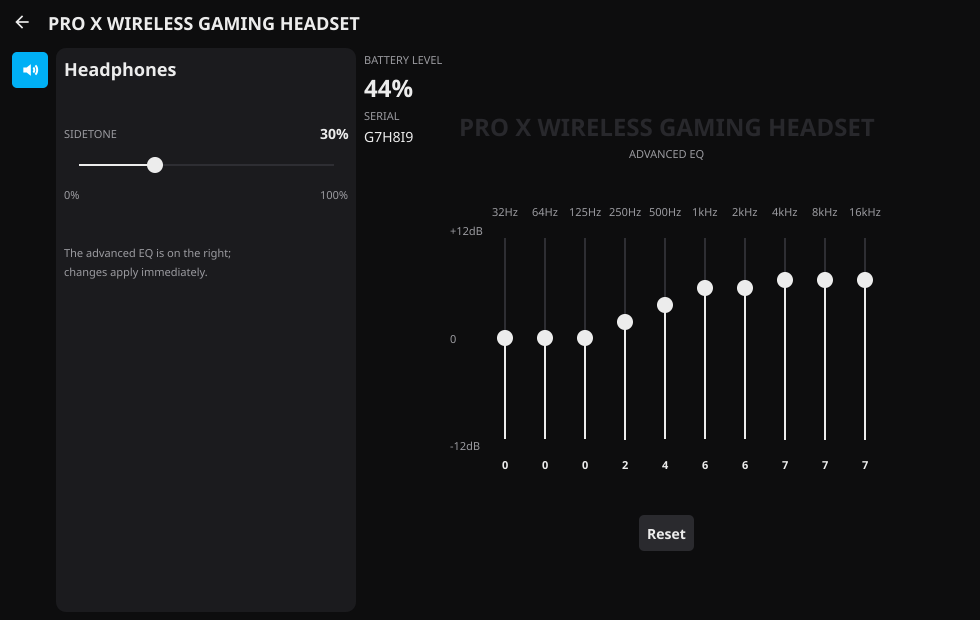
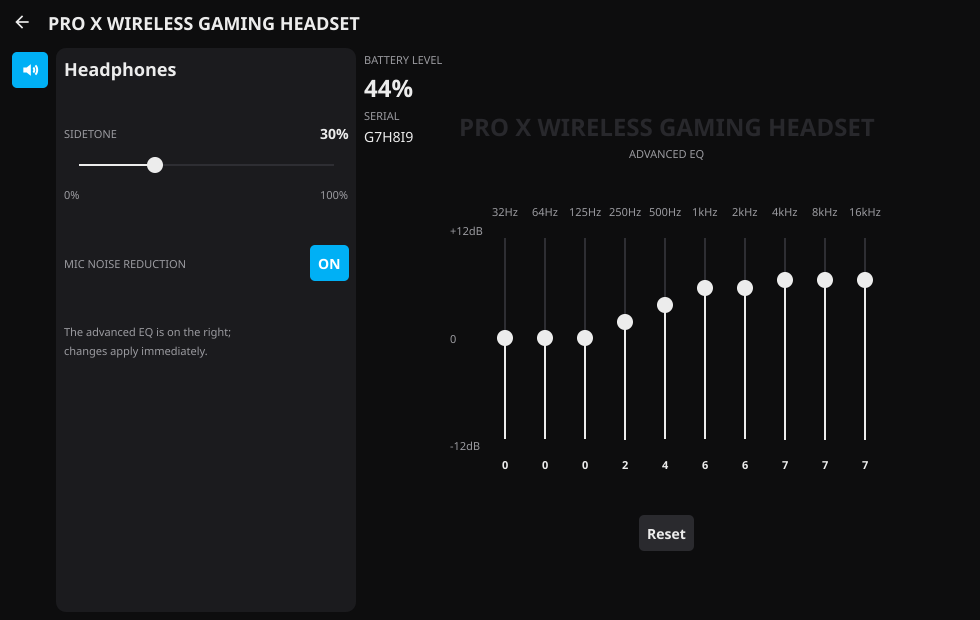
Add mic noise-reduction toggle to the PRO X page
The EQUALIZER feature (0x8310) the prox plugin already talks to has two
more functions — 4 (get) and 5 (set) hardware microphone noise
reduction — surfaced here as a device.NoiseReductionControl capability
and a MIC NOISE REDUCTION pill on the Headphones panel. Units whose
firmware predates the functions answer with a HID++ error; the GUI
probes with a read and hides the toggle in that case, and tests cover
both firmwares.

Also documents the equalizer get/set-levels selector bytes that were
previously cargo-culted as an unexplained "required prefix": the get
byte is a gain location (EEPROM vs RAM) and the set byte a persistence
mode. Values unchanged; discovered via OpenLogi's independently written
0x8310 implementation (github.com/AprilNEA/OpenLogi, MIT/Apache-2.0).

Claude-Session: https://claude.ai/code/session_012G3xCm836vyhQgGvqn7bKg

Changed region(s): [[0.0612, 0.521, 0.2449, 0.5823], [0.0612, 0.3984, 0.2449, 0.4597], [0.3061, 0.3984, 0.3673, 0.4597]]

diff --git a/internal/device/prox/prox_test.go b/internal/device/prox/prox_test.go
@@ -99,6 +99,12 @@ type fakeHeadset struct {
 	eqDBRange int8
 	eqFreqs   []uint16
 	eqLevels  []int8
+
+	noiseReduction bool
+	// noNoiseReduction simulates firmware that predates the equalizer
+	// feature's noise-reduction functions: they answer with a HID++
+	// error instead.
+	noNoiseReduction bool
 }
 
 func newFakeHeadset() *fakeHeadset {
@@ -115,6 +121,7 @@ func newFakeHeadset() *fakeHeadset {
 		eqDBRange:      12,
 		eqFreqs:        []uint16{32, 64, 125, 250, 500, 1000, 2000, 4000, 8000, 16000},
 		eqLevels:       []int8{0, 0, 0, 0, 0, 0, 0, 0, 0, 0},
+		noiseReduction: true,
 	}
 }
 
@@ -189,6 +196,18 @@ func (fh *fakeHeadset) respond(req []byte) []byte {
 				}
 				fh.eqLevels[i] = int8(params[1+i])
 			}
+		case eqFuncGetNoiseReduction & 0xf0:
+			if fh.noNoiseReduction {
+				return fh.errorResponse(deviceIndex, featureIndex, funcSwID)
+			}
+			if fh.noiseReduction {
+				resp[4] = 1
+			}
+		case eqFuncSetNoiseReduction & 0xf0:
+			if fh.noNoiseReduction {
+				return fh.errorResponse(deviceIndex, featureIndex, funcSwID)
+			}
+			fh.noiseReduction = params[0] != 0
 		default:
 			return fh.errorResponse(deviceIndex, featureIndex, funcSwID)
 		}
@@ -386,5 +405,60 @@ func TestSetEqualizerLevelsWrongCount(t *testing.T) {
 
 	if err := h.SetEqualizerLevels([]int{1, 2, 3}); err == nil {
 		t.Fatal("expected an error when the level count doesn't match the band count")
+	}
+}
+
+func TestNoiseReductionGetSet(t *testing.T) {
+	h, fh, _ := newTestHeadset(t)
+	defer h.Close()
+
+	on, err := h.NoiseReduction()
+	if err != nil {
+		t.Fatalf("NoiseReduction: %v", err)
+	}
+	if !on {
+		t.Error("expected noise reduction to start enabled")
+	}
+
+	if err := h.SetNoiseReduction(false); err != nil {
+		t.Fatalf("SetNoiseReduction(false): %v", err)
+	}
+	if fh.noiseReduction {
+		t.Error("device still has noise reduction enabled after disabling")
+	}
+
+	if err := h.SetNoiseReduction(true); err != nil {
+		t.Fatalf("SetNoiseReduction(true): %v", err)
+	}
+	on, err = h.NoiseReduction()
+	if err != nil {
+		t.Fatalf("NoiseReduction: %v", err)
+	}
+	if !on {
+		t.Error("noise reduction should read back enabled")
+	}
+}
+
+func TestNoiseReductionUnsupportedFirmware(t *testing.T) {
+	fh := newFakeHeadset()
+	fh.noNoiseReduction = true
+	handle := newFakeHandle()
+	handle.responder = fh.respond
+	conn := hidpp.Open(handle)
+
+	h, err := buildHeadset(conn, "TESTSN")
+	if err != nil {
+		conn.Close()
+		t.Fatalf("buildHeadset: %v", err)
+	}
+	defer h.Close()
+
+	// Firmware without functions 4/5 answers with a HID++ error; the
+	// plugin surfaces that as an error (and the GUI hides the toggle).
+	if _, err := h.NoiseReduction(); err == nil {
+		t.Fatal("expected an error from firmware without noise-reduction functions")
+	}
+	if err := h.SetNoiseReduction(true); err == nil {
+		t.Fatal("expected an error setting noise reduction on unsupported firmware")
 	}
 }

diff --git a/internal/device/prox/eq.go b/internal/device/prox/eq.go
@@ -14,15 +14,25 @@ const (
 	eqFuncGetBandFrequencies byte = 0x10
 	eqFuncGetLevels          byte = 0x20
 	eqFuncSetLevels          byte = 0x30
+	eqFuncGetNoiseReduction  byte = 0x40
+	eqFuncSetNoiseReduction  byte = 0x50
 )
 
-// eqGetLevelsPrefix/eqSetLevelsPrefix are fixed leading parameter bytes
-// the protocol requires for the get/set-levels calls (purpose undocumented
-// beyond "required prefix" in the reference implementation this was
-// verified against).
+// The get/set-levels calls take a leading selector byte. Originally these
+// were cargo-culted as "required prefix" from the reference implementation
+// this plugin was verified against; OpenLogi's 0x8310 implementation
+// documents their actual meaning:
+//
+//   - get: a gain *location* — 0 reads the custom EQ stored in EEPROM,
+//     1 reads the active EQ in RAM.
+//   - set: a gain *persistence* — 0 applies to RAM only (volatile),
+//     1 applies to RAM and stores to EEPROM, 2 stores to EEPROM only.
+//
+// The values themselves are unchanged from what was verified against real
+// hardware.
 const (
-	eqGetLevelsPrefix byte = 0x00
-	eqSetLevelsPrefix byte = 0x02
+	eqGainLocationEEPROM      byte = 0x00
+	eqPersistNonVolatileWrite byte = 0x02
 )
 
 // discoverEqualizer reads the device's fixed band layout (frequencies)
@@ -86,7 +96,7 @@ func (h *Headset) EqualizerLevels() ([]int, error) {
 	if h.eqFeatureIndex == 0 {
 		return nil, fmt.Errorf("prox: device has no equalizer feature")
 	}
-	resp, err := h.conn.Call(h.deviceIndex, h.eqFeatureIndex, eqFuncGetLevels, []byte{eqGetLevelsPrefix})
+	resp, err := h.conn.Call(h.deviceIndex, h.eqFeatureIndex, eqFuncGetLevels, []byte{eqGainLocationEEPROM})
 	if err != nil {
 		return nil, fmt.Errorf("prox: get equalizer levels: %w", err)
 	}
@@ -101,6 +111,40 @@ func (h *Headset) EqualizerLevels() ([]int, error) {
 	return levels, nil
 }
 
+// NoiseReduction implements device.NoiseReductionControl: whether the
+// headset's hardware microphone noise reduction is enabled. Functions
+// 4/5 of the same EQUALIZER feature; units whose firmware predates them
+// answer with a HID++ error, which callers treat as "not supported"
+// (the GUI probes with a read and hides the toggle on error).
+func (h *Headset) NoiseReduction() (bool, error) {
+	if h.eqFeatureIndex == 0 {
+		return false, fmt.Errorf("prox: device has no equalizer feature")
+	}
+	resp, err := h.conn.Call(h.deviceIndex, h.eqFeatureIndex, eqFuncGetNoiseReduction, nil)
+	if err != nil {
+		return false, fmt.Errorf("prox: get noise reduction: %w", err)
+	}
+	if len(resp) < 1 {
+		return false, fmt.Errorf("prox: short noise reduction response")
+	}
+	return resp[0] != 0, nil
+}
+
+// SetNoiseReduction implements device.NoiseReductionControl.
+func (h *Headset) SetNoiseReduction(enabled bool) error {
+	if h.eqFeatureIndex == 0 {
+		return fmt.Errorf("prox: device has no equalizer feature")
+	}
+	var v byte
+	if enabled {
+		v = 1
+	}
+	if _, err := h.conn.Call(h.deviceIndex, h.eqFeatureIndex, eqFuncSetNoiseReduction, []byte{v}); err != nil {
+		return fmt.Errorf("prox: set noise reduction: %w", err)
+	}
+	return nil
+}
+
 // SetEqualizerLevels implements device.EqualizerControl.
 func (h *Headset) SetEqualizerLevels(levelsDB []int) error {
 	if h.eqFeatureIndex == 0 {
@@ -111,7 +155,7 @@ func (h *Headset) SetEqualizerLevels(levelsDB []int) error {
 	}
 
 	params := make([]byte, 1+len(levelsDB))
-	params[0] = eqSetLevelsPrefix
+	params[0] = eqPersistNonVolatileWrite
 	for i, lvl := range levelsDB {
 		lvl = clamp(lvl, h.eqMinDB, h.eqMaxDB)
 		params[1+i] = byte(int8(lvl))

diff --git a/cmd/logitux/ui.go b/cmd/logitux/ui.go
@@ -947,6 +947,25 @@ func soundPanel(a *appState, d device.Device, info device.Info, serial string, s
 		body.Add(sidetoneSlider)
 	}
 
+	// The toggle only appears if a live read succeeds: the control rides
+	// on the equalizer feature, and units whose firmware predates its
+	// functions answer the read with a HID++ error.
+	if nrc, ok := d.(device.NoiseReductionControl); ok {
+		if on, err := nrc.NoiseReduction(); err == nil {
+			body.Add(widget.NewLabel(""))
+			body.Add(togglePill("Mic Noise Reduction", on,
+				func(enable bool) error {
+					if err := nrc.SetNoiseReduction(enable); err != nil {
+						log.Printf("logitux: set noise reduction on %s: %v", info.Name, err)
+						return err
+					}
+					return nil
+				},
+				func(bool) {}, // hardware retains the state; nothing to persist
+			))
+		}
+	}
+
 	if hasEQ {
 		body.Add(widget.NewLabel(""))
 		body.Add(panelNote("The advanced EQ is on the right;", "changes apply immediately."))

diff --git a/internal/device/device.go b/internal/device/device.go
@@ -127,6 +127,13 @@ type EqualizerBand struct {
 	FrequencyHz int
 }
 
+// NoiseReductionControl is implemented by headsets with hardware
+// microphone noise reduction that can be toggled.
+type NoiseReductionControl interface {
+	NoiseReduction() (bool, error)
+	SetNoiseReduction(enabled bool) error
+}
+
 // EqualizerControl is implemented by devices with a hardware equalizer.
 // The band layout (count and frequencies) and dB range are fixed
 // properties of the hardware, discovered at connect time; SetLevels takes

diff --git a/cmd/logitux/preview_test.go b/cmd/logitux/preview_test.go
@@ -110,6 +110,8 @@ func (f *fakeHeadsetDevice) EqualizerLevels() ([]int, error) {
 	return []int{0, 0, 0, 2, 4, 6, 6, 7, 7, 7}, nil
 }
 func (f *fakeHeadsetDevice) SetEqualizerLevels([]int) error { return nil }
+func (f *fakeHeadsetDevice) NoiseReduction() (bool, error)  { return true, nil }
+func (f *fakeHeadsetDevice) SetNoiseReduction(bool) error   { return nil }
 
 type fakeWebcamDevice struct {
 	fakeDevice

diff --git a/README.md b/README.md
@@ -27,9 +27,10 @@ v1 supports:
   against doesn't expose either, evidently handling them through the
   receiver's own protocol layer instead, so both are implemented as
   optional and degrade gracefully rather than being guaranteed).
-- **PRO X Wireless Gaming Headset** — battery, sidetone, and a full
-  per-band equalizer (band count/frequencies/dB range are read from the
-  device, not assumed).
+- **PRO X Wireless Gaming Headset** — battery, sidetone, a full per-band
+  equalizer (band count/frequencies/dB range are read from the device,
+  not assumed), and a hardware mic noise-reduction toggle on units whose
+  firmware supports it (probed with a read; the toggle hides otherwise).
 - **C920 / C920 HD Pro / C922 Pro Stream / C930e** webcams — zoom,
   pan/tilt position, autofocus and manual focus, auto and manual
   exposure, and image tuning (brightness, contrast, saturation,
@@ -51,7 +52,8 @@ drops you back on the Dashboard. Device pages are laid out like G HUB's:
 an icon rail on the left groups the device's settings into sections —
 Sensitivity (DPI, report rate), Assignments (button remapping), Lighting
 (power, brightness, color temperature, RGB logo color), and Sound
-(sidetone, equalizer) — and only the sections a device actually supports
+(sidetone, mic noise reduction, equalizer) — and only the sections a
+device actually supports
 appear. The panel beside the rail holds the selected section's controls,
 and the rest of the page shows the battery level and a section-specific
 showcase. On a mouse's Sensitivity section, DPI is presented as G HUB's